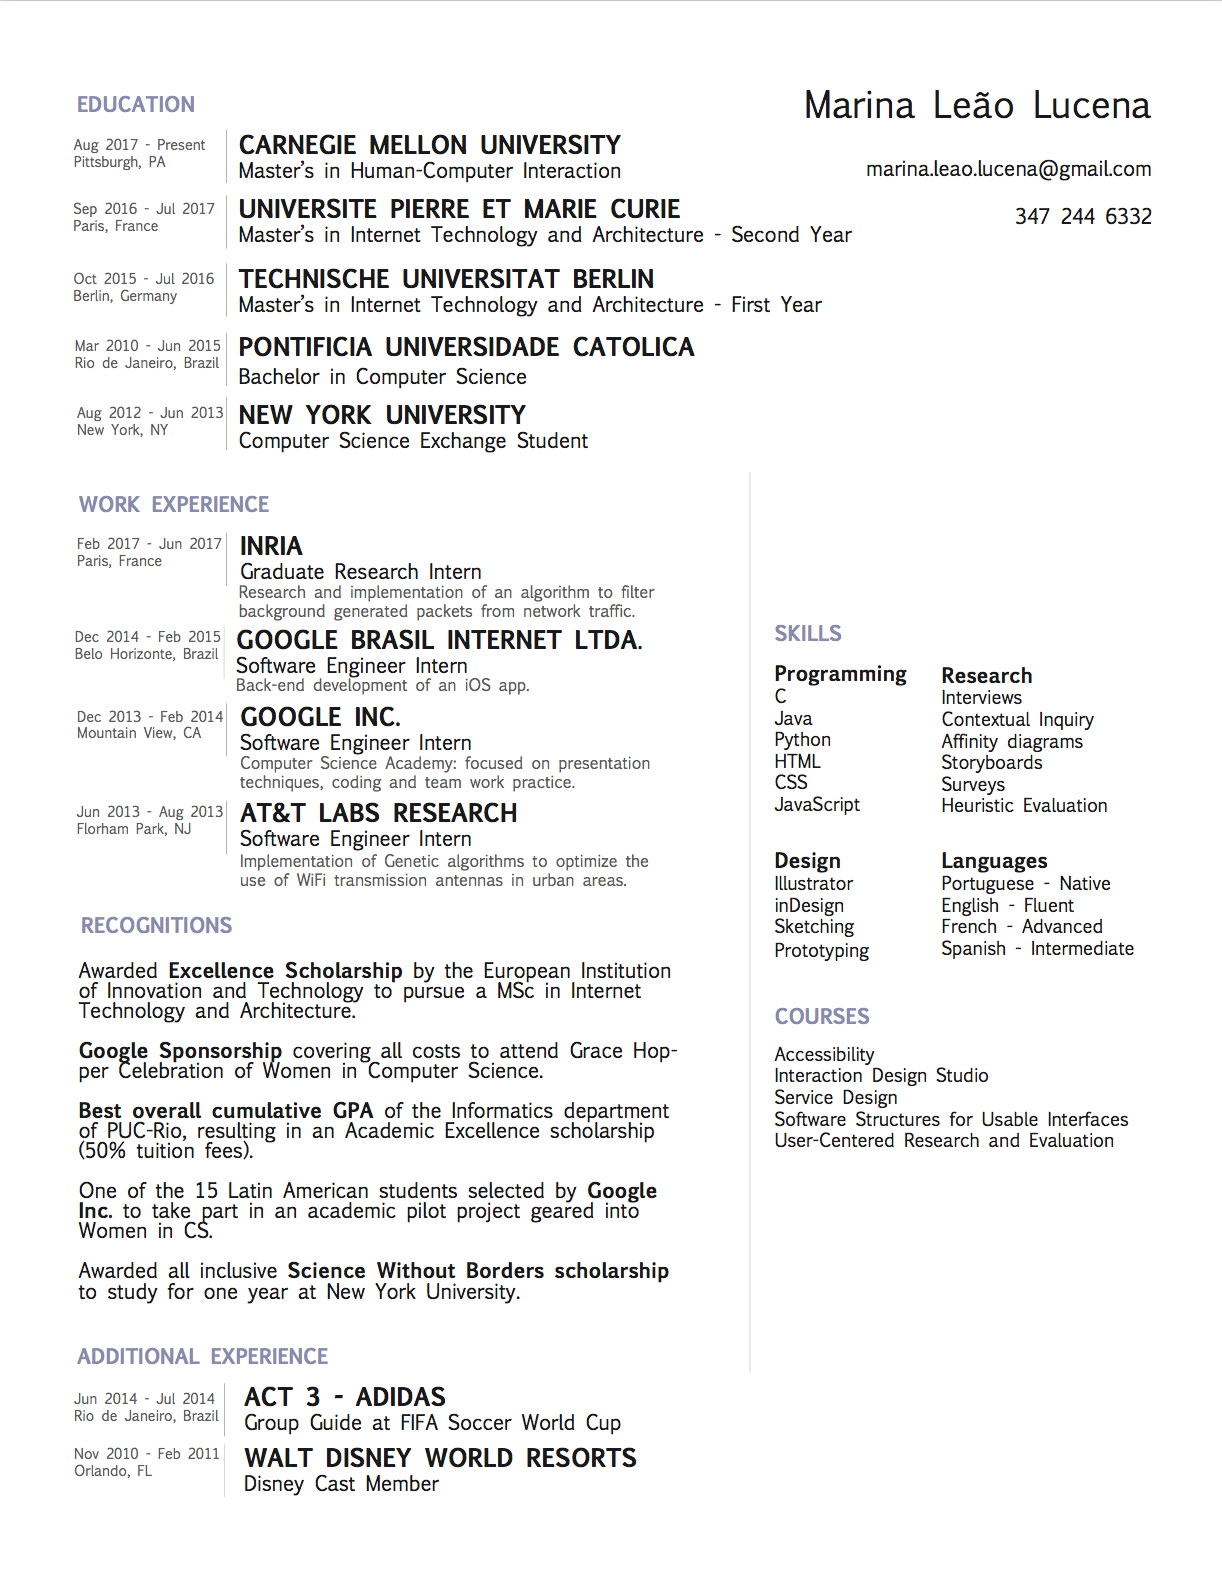
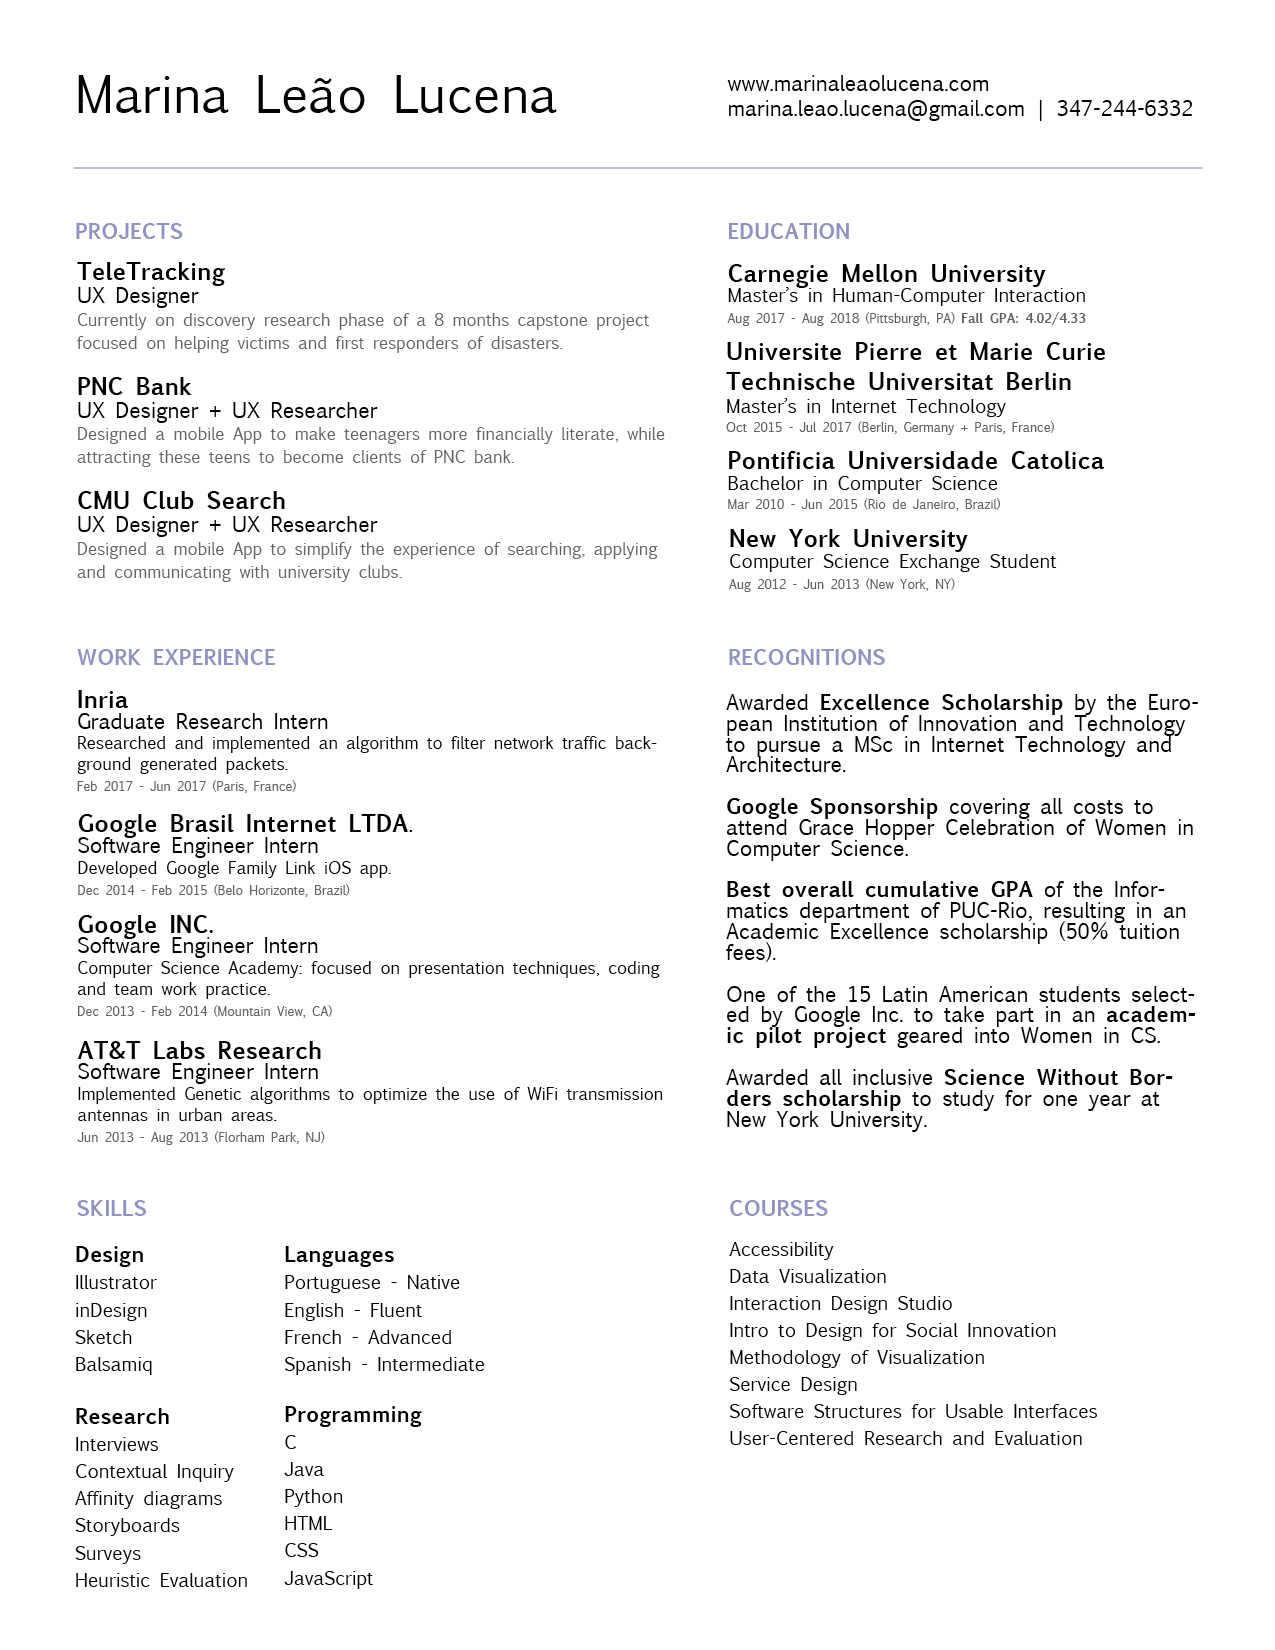
added final resume

diff --git a/resume.html b/resume.html
@@ -41,7 +41,7 @@
       </div>
   	<br><br><br><br><br><br><br><br>
   	<div>
-			<img id="resume-image" class="col-12" src="images/resume3.png" alt="Resume image">
+			<img id="resume-image" class="col-12" src="images/resume.png" alt="Resume image">
   	</div>
 	</body>
 </html>
